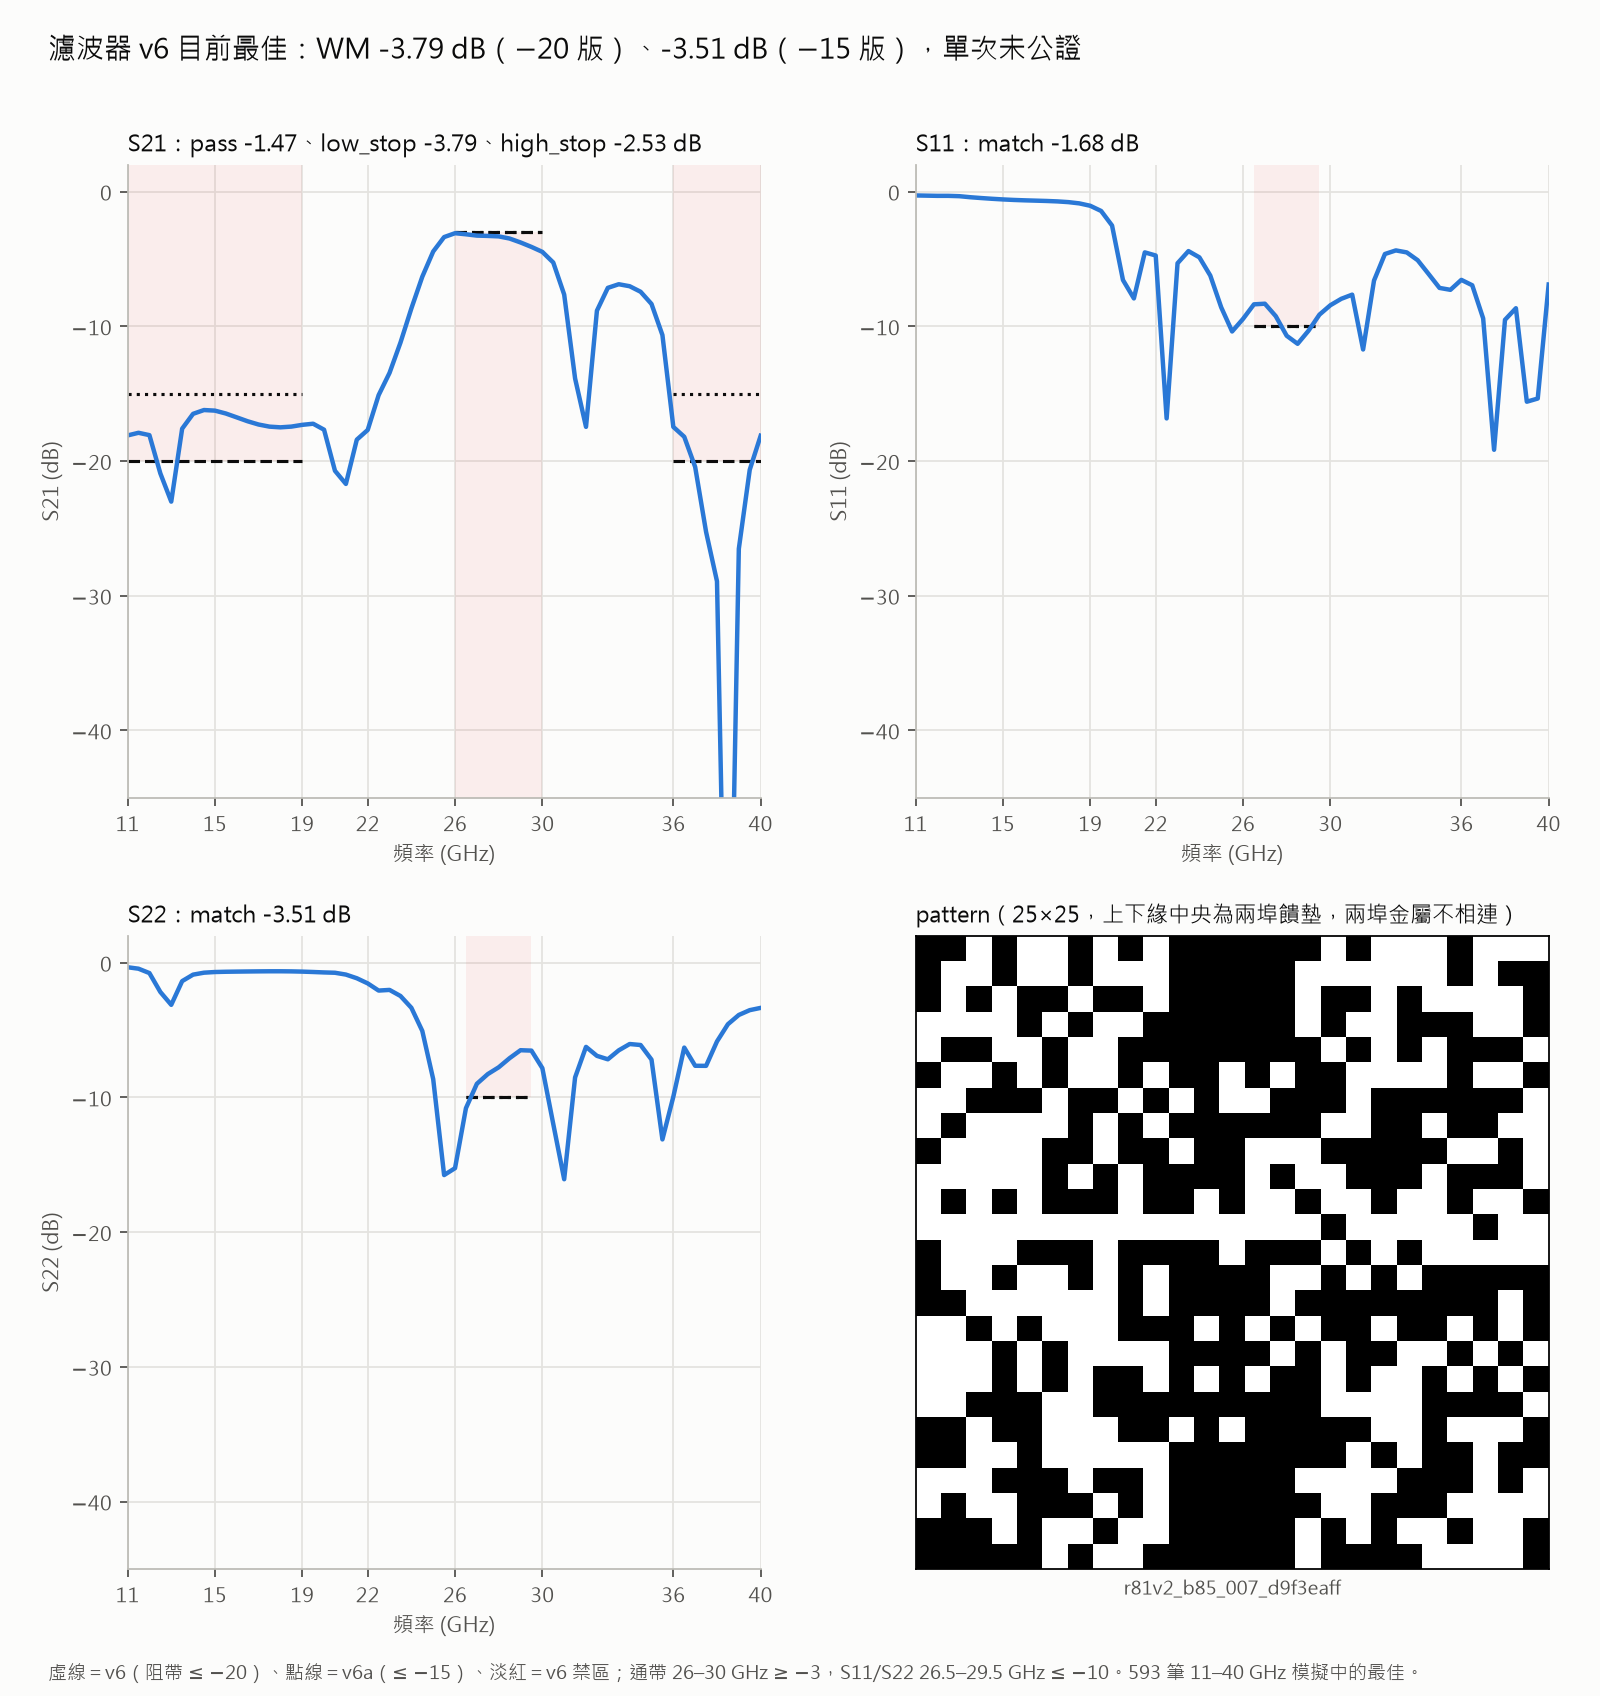
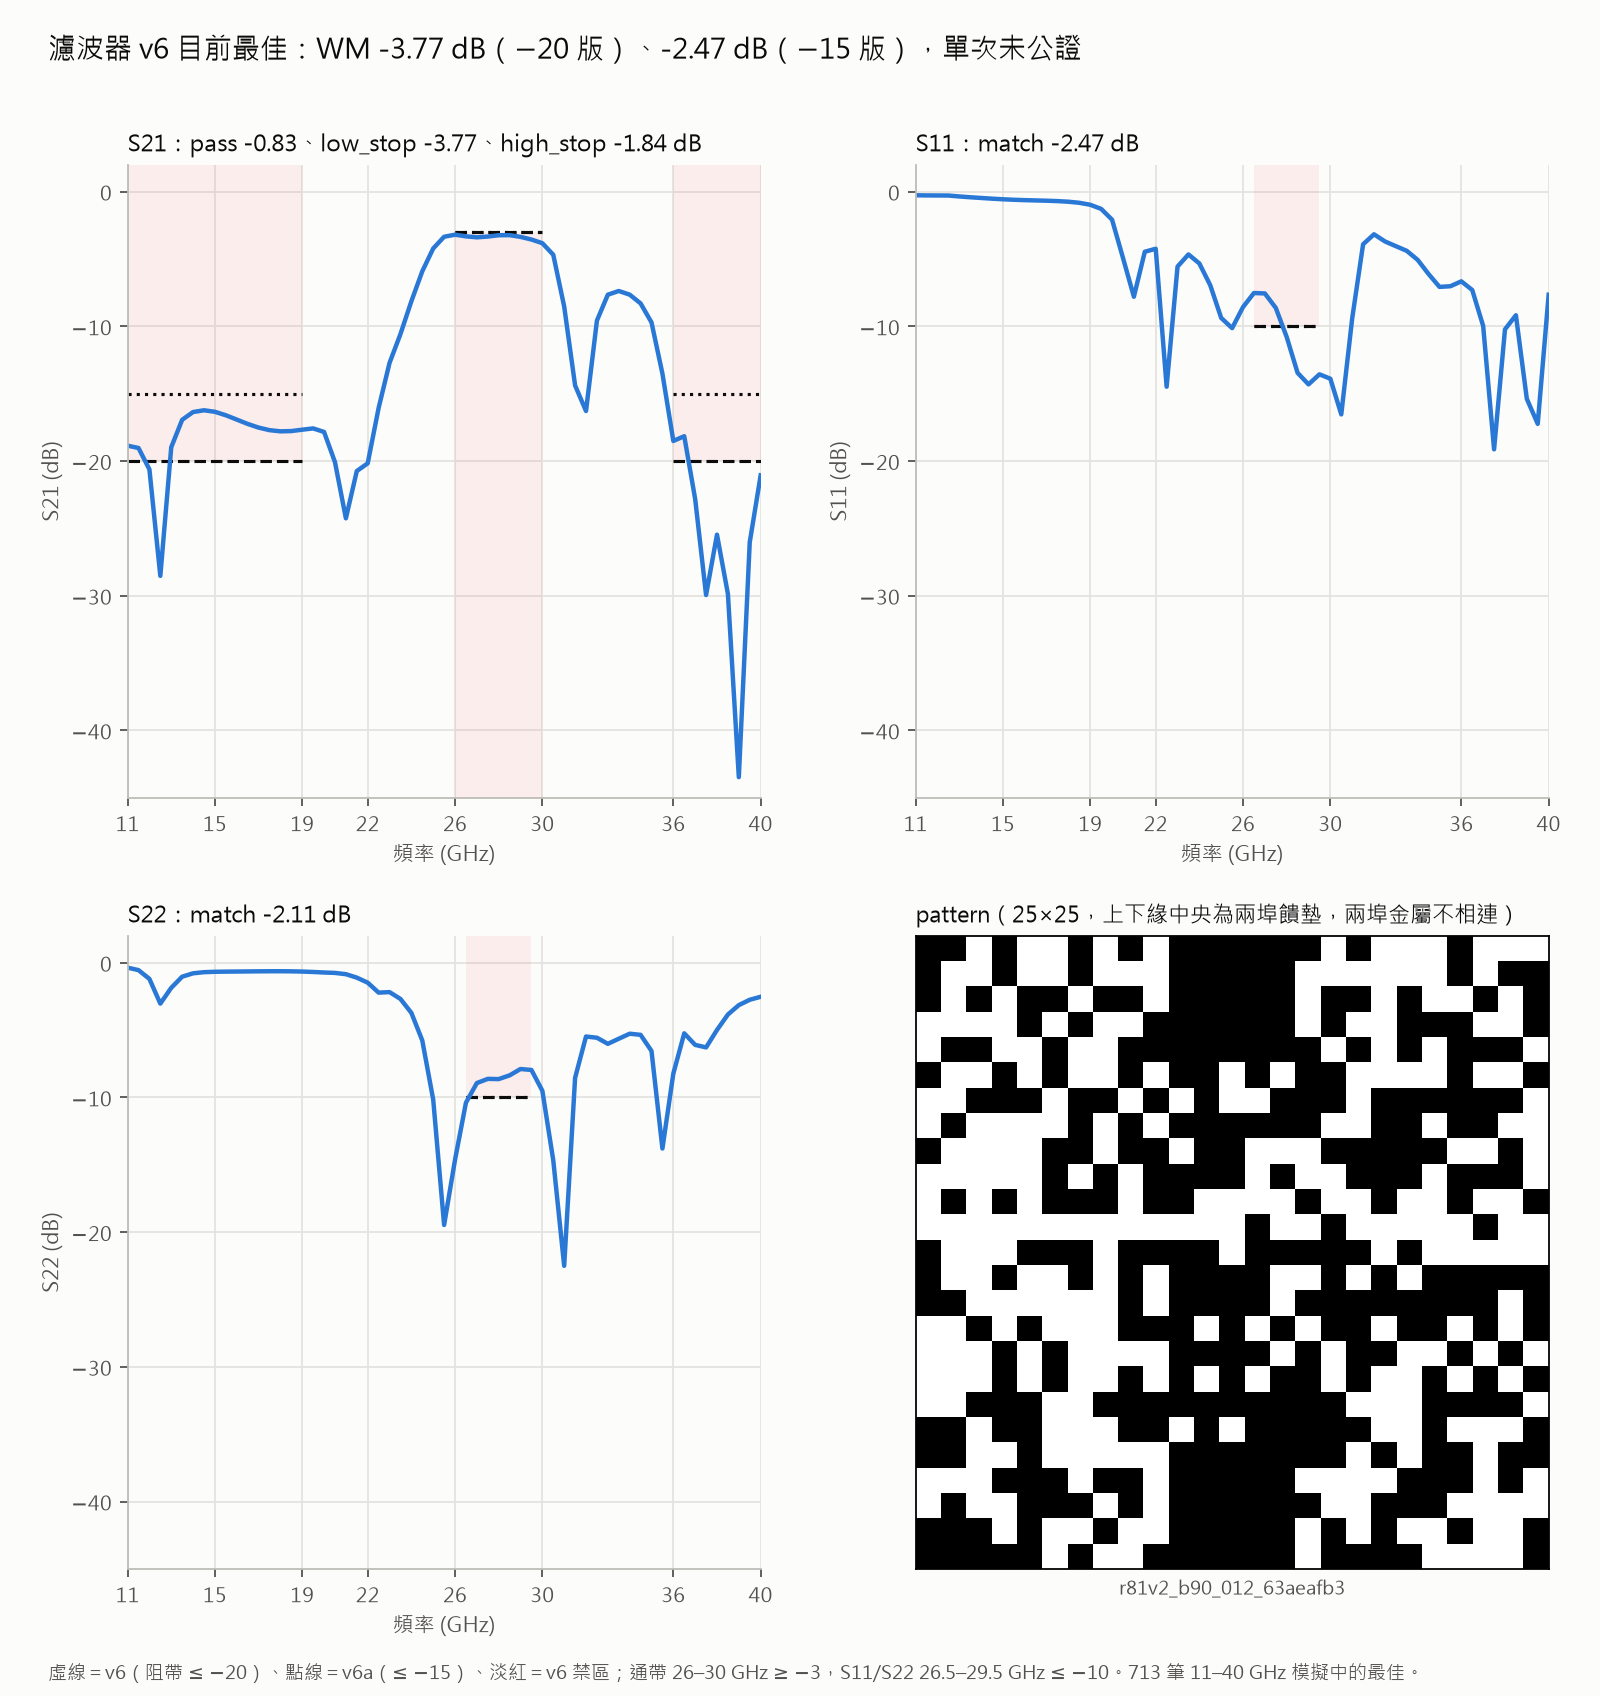
fig(r81): v6 爬升圖與最佳卡片更新（b90_012 −3.77 單次，加註 b89 利用臂改用變化量模型）

diff --git a/script/figs/r81_v6.py b/script/figs/r81_v6.py
@@ -19,7 +19,7 @@ from script.figs import r81_progress as rp
 DOT, LINE, MARK = "#9ec5f4", "#2a78d6", "#eb6834"
 V6, V6A = sm.REPO / "configs" / "dual_r81_v6.yaml", sm.REPO / "configs" / "dual_r81_v6a.yaml"
 EVENTS = [(62, "斷開＋大步變異 30 格：壓掉 13.5 GHz 峰"), (67, "饋墊附近細步"), (71, "12 格＋前 10 名起點"),
-          (74, "交界推移"), (76, "任意切縫重切"), (78, "取消選樣放寬"), (85, "變化量模型試用")]
+          (74, "交界推移"), (76, "任意切縫重切"), (78, "取消選樣放寬"), (85, "變化量模型試用"), (89, "利用臂改用變化量模型")]
 
 
 def rows_v6(cfg, grid):
